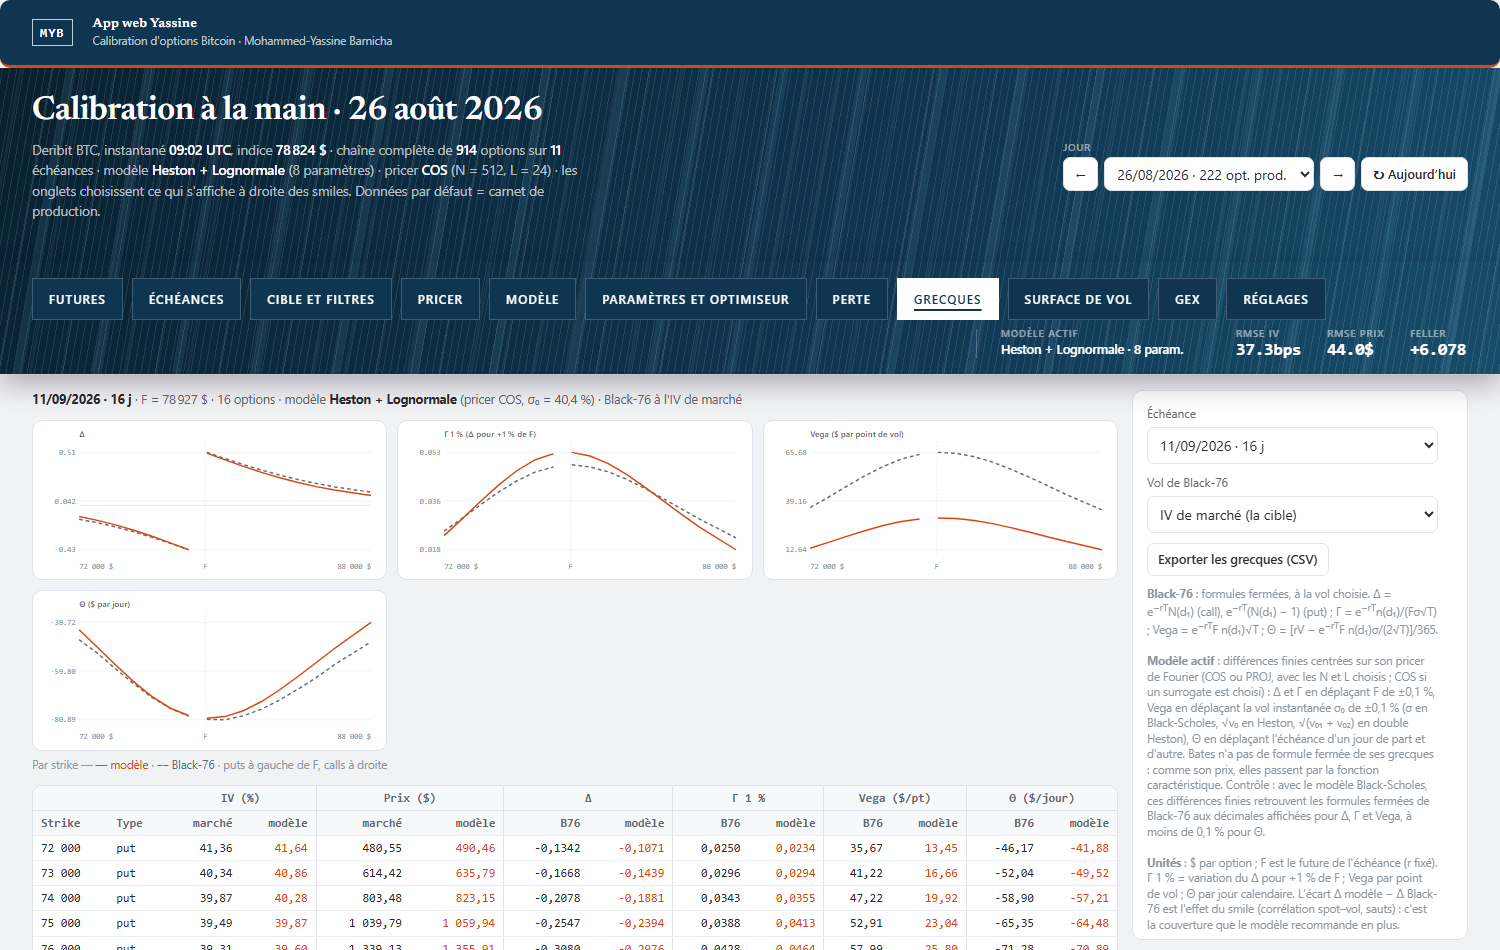
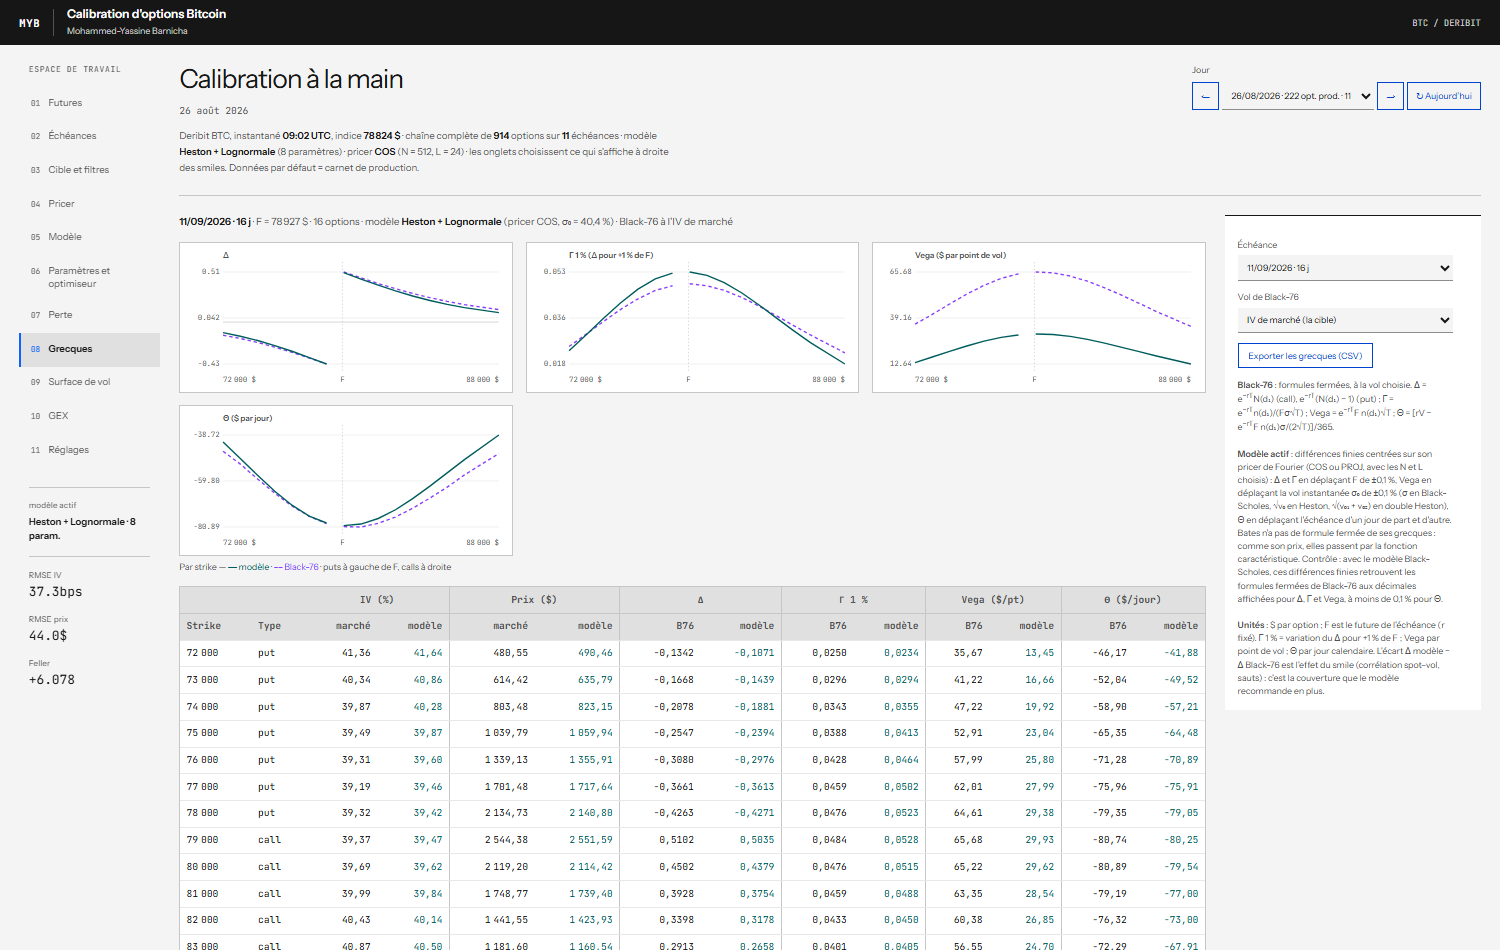
h

diff --git a/README.md b/README.md
@@ -16,12 +16,15 @@ entièrement dans le navigateur : aucun serveur de calcul, aucune installation.*
 - **Grecques** : Δ, Γ, Vega, Θ du modèle (différences finies sur son propre pricer) contre Black-76, par strike.
 - **Surface de volatilité 3D** : surface du modèle et points de marché, calibrés seulement ou tous, avec
   l'extrapolation du modèle là où il n'a rien vu.
-- **Pricer à la demande** : une option saisie à la main, ou un fichier CSV entier rendu avec prix, IV et grecques.
+- **Pricer à la demande** : une option saisie à la main, ou un fichier CSV entier rendu avec prix, IV et grecques
+  (format ci-dessous).
 - **Exotiques par Monte-Carlo** : asiatiques, barrières, digitales, lookbacks, américaines (Longstaff-Schwartz),
   payoffs composés ou formule libre, avec contrôle automatique contre le prix exact de Fourier.
 - **GEX (gamma exposure)** : exposition gamma des teneurs de marché par strike, niveau de bascule, call / put walls.
-- **Données** : 270+ jours de chaînes d'options Deribit depuis janvier 2024, l'historique des futures, 529 jeux de
-  paramètres calibrés, et un jour de plus chaque matin.
+- **Données** : 270+ jours de chaînes d'options Deribit depuis janvier 2024 (open interest compris), l'historique
+  des futures, 529 jeux de paramètres calibrés, et un jour de plus chaque matin.
+- **Ordinateur et téléphone** : navigation verticale numérotée sur grand écran ; sur téléphone, les smiles en
+  plein écran, deux volets glissants et le bouton d'optimisation toujours à portée de pouce.
 
 ## Modèles
 
@@ -43,8 +46,12 @@ Les 28 compositions sont pricées par leur fonction caractéristique, avec **COS
 - **Des données qui se mettent à jour seules** : une GitHub Action télécharge chaque matin la chaîne d'options
   Deribit (API publique, sans clé), l'ajoute et republie la page. Le bouton *↻ Aujourd'hui* fait la même chose
   depuis le navigateur, à tout moment.
-- **Fluide** : le pricer ne recalcule rien d'inutile (une évaluation complète ≈ 3 ms en COS, soit environ 300 par
-  seconde) ; l'optimisation tourne par tranches de 12 ms, l'écran garde ses 60 images par seconde.
+- **Rapide et fluide** (mesuré dans Chrome, modèle de Bates, 6 échéances, 222 options, COS) : une évaluation
+  complète ≈ 1,3 ms, soit environ **650 évaluations par seconde** pendant une optimisation ; un rafraîchissement de
+  l'écran ≈ 3,5 ms. L'optimisation tourne par tranches de 12 ms : l'écran garde ses 60 images par seconde.
+- **Un design sobre** inspiré des principes du système Carbon (IBM, Apache-2.0) : fond neutre, angles droits,
+  chiffres en chasse fixe, aucune bibliothèque externe — la page reste un seul fichier autonome
+  ([docs/DESIGN.md](docs/DESIGN.md)).
 
 ## Validation
 
@@ -56,6 +63,9 @@ Les 28 compositions sont pricées par leur fonction caractéristique, avec **COS
   modèles ; prime d'exercice anticipé nulle pour r = 0, positive pour r > 0.
 - Temps à l'échéance compté à l'heure près jusqu'à l'expiration de 08:00 UTC, ce qui compte pour les échéances de
   quelques jours.
+- Optimisations du pricer contrôlées contre la version précédente sur les 28 compositions, COS et PROJ : prix
+  identiques au bruit d'arrondi près (4,5·10⁻⁸ en relatif) ; la série COS est coupée là où son reste est borné
+  sous 10⁻¹⁰ $.
 
 ## Aperçus
 
@@ -65,20 +75,58 @@ Les 28 compositions sont pricées par leur fonction caractéristique, avec **COS
 
 ![Grecques du modèle contre Black-76, par strike](docs/apercu_grecques.png)
 
+**Sur téléphone** — à gauche la page (une échéance par rang, « Optimiser » fixé en bas), au milieu le volet des
+onglets, à droite le volet des réglages de l'onglet :
+
+![Version mobile : page, volet des onglets, volet des réglages](docs/apercu_mobile.png)
+
+## Toutes les vues
+
+Chaque onglet, sur le jour du 26/08/2026 (modèle de Bates calibré). Cliquer sur une image pour l'agrandir.
+
+| | |
+|---|---|
+| **Futures — trajectoire de chaque future depuis son émission**<br>[![Futures — trajectoire de chaque future depuis son émission](docs/captures/01_futures.png)](docs/captures/01_futures.png) | **Échéances — choix des échéances calibrées**<br>[![Échéances — choix des échéances calibrées](docs/captures/02_echeances.png)](docs/captures/02_echeances.png) |
+| **Cible et filtres — prix visé, spreads, moneyness**<br>[![Cible et filtres — prix visé, spreads, moneyness](docs/captures/03_cible_filtres.png)](docs/captures/03_cible_filtres.png) | **Pricer — COS / PROJ, options à la main, CSV, Monte-Carlo**<br>[![Pricer — COS / PROJ, options à la main, CSV, Monte-Carlo](docs/captures/04_pricer.png)](docs/captures/04_pricer.png) |
+| **Modèle — variance × sauts, dynamique affichée**<br>[![Modèle — variance × sauts, dynamique affichée](docs/captures/05_modele.png)](docs/captures/05_modele.png) | **Paramètres et optimiseur — curseurs, cinq optimiseurs**<br>[![Paramètres et optimiseur — curseurs, cinq optimiseurs](docs/captures/06_parametres_optimiseur.png)](docs/captures/06_parametres_optimiseur.png) |
+| **Perte — mesure et pondération de l'erreur**<br>[![Perte — mesure et pondération de l'erreur](docs/captures/07_perte.png)](docs/captures/07_perte.png) | **Grecques — modèle contre Black-76, par strike**<br>[![Grecques — modèle contre Black-76, par strike](docs/captures/08_grecques.png)](docs/captures/08_grecques.png) |
+| **Surface de vol — 3D, modèle et marché**<br>[![Surface de vol — 3D, modèle et marché](docs/captures/09_surface_de_vol.png)](docs/captures/09_surface_de_vol.png) | **GEX — gamma exposure, niveau de bascule**<br>[![GEX — gamma exposure, niveau de bascule](docs/captures/10_gex.png)](docs/captures/10_gex.png) |
+| **Réglages — enregistrement et export des jeux**<br>[![Réglages — enregistrement et export des jeux](docs/captures/11_reglages.png)](docs/captures/11_reglages.png) | **Sur téléphone** — page, volet des onglets, volet des réglages<br>[![Version mobile](docs/apercu_mobile.png)](docs/apercu_mobile.png) |
+
 ## Démarrer
 
-- **En ligne** : ouvrir la démo. Un onglet s'ouvre directement par l'adresse, par exemple `…/#GEX` ou
-  `…/#Surface%20de%20vol`.
+- **En ligne** : ouvrir la démo, sur ordinateur ou sur téléphone. Un onglet s'ouvre directement par l'adresse, par
+  exemple `…/#GEX` ou `…/#Surface%20de%20vol`.
 - **En local** : télécharger le dépôt et double-cliquer sur `index.html` (garder `jours/`, `futures.js` et
   `jeux.js` à côté).
+- **Sur téléphone** : « ☰ » en haut à gauche choisit l'onglet, « ☰ Réglages » en haut à droite ouvre ses réglages,
+  « Optimiser » reste en bas de l'écran ; toucher le voile sombre referme un volet.
+
+## Format CSV du pricer
+
+Onglet *Pricer* → *Pricer tes propres options* → *Pricer un CSV…* : le fichier revient (`<nom>_price.csv`) avec,
+en plus de ses colonnes, prix et IV du modèle, IV de marché, écarts, Δ, Γ, Vega, Θ du modèle et de Black-76.
+
+```csv
+id,type,K,F,jours,r,prix_marche
+put-70k,put,70000,83757,30,0.06,1245.5
+call-95k,call,95000,83757,30,0.06,980
+atm-90j,call,84000,83757,90,0.06,
+```
+
+Obligatoires : `type` (call/put, C/P), `K`, `F` et l'échéance par `T` (années) **ou** `jours` **ou** `echeance`
+(AAAA-MM-JJ, expiration 08:00 UTC). Facultatives : `r`, `prix_marche` ; toute autre colonne est recopiée.
+Séparateur `,` ou `;` (virgule décimale acceptée avec `;`, comme dans Excel en français). Détail dans le
+[guide](docs/GUIDE.md).
 
 ## Pour aller plus loin
 
 - [docs/GUIDE.md](docs/GUIDE.md) : mode d'emploi complet (chaque onglet, format CSV, scripts, mise à jour des
   données, publication).
+- [docs/DESIGN.md](docs/DESIGN.md) : règles du design (couleurs, grille, ordinateur et téléphone).
 - [METHODOLOGIE_app_web_yassine.pdf](METHODOLOGIE_app_web_yassine.pdf) : théorie et algorithmes (composition des
   modèles, pricers de Fourier, perte, optimiseurs, validation).
-- Développement : la page se construit depuis `sources/` (`template_full.html`, `pricer.js`) avec
+- Développement : la page se construit depuis `sources/` (`template_full.html`, `design.css`, `pricer.js`) avec
   `python sources/build.py` ; un nouveau modèle s'ajoute par son exposant dans `pricer.js` et sa fiche dans le
   gabarit.
 

diff --git a/docs/GUIDE.md b/docs/GUIDE.md
@@ -106,6 +106,15 @@ Retour au [README](../README.md).
    générations, mutation, recombinaison, tol, atol, graine, injection du point actuel (DE), avec deux préréglages
    « Défauts scipy » et « Réglages de production » (ceux de la chaîne de calibration Python d'origine). Ils sont enregistrés avec le réglage.
 
+## Sur téléphone
+
+- En haut, une barre fixe : « ☰ » (à gauche) ouvre le volet des **onglets**, la RMSE au milieu, « ☰ Réglages » (à
+  droite) ouvre le volet des **réglages de l'onglet** (curseurs, point de départ, pricer…).
+- Au centre, les smiles, **une échéance par rang** ; en bas, toujours visible, **« Optimiser »** avec sa progression
+  et son état.
+- Un volet se referme par « ✕ Fermer », en choisissant un onglet, ou en touchant le voile sombre.
+- La page est légèrement dézoomée (85 %) ; sur ordinateur, elle l'est à 80 %.
+
 ## Vitesse et fluidité
 
 - **Réglages par défaut les plus rapides** : pricer COS (N = 512, L = 24) et modèle de Bates (Heston + sauts
@@ -119,9 +128,20 @@ Retour au [README](../README.md).
   rafraîchi environ toutes les 100 ms et reprend l'évaluation que l'optimiseur vient de faire au lieu de la
   refaire ; les smiles sont dessinés avant les autres écritures de la page ; l'onglet Grecques n'est recalculé
   qu'une fois par seconde pendant une optimisation (et à la fin).
-- **Ordre de grandeur** (Bates, 6 échéances, ~300 options, COS) : une évaluation ≈ 3 ms, soit environ 300
-  évaluations par seconde ; un rafraîchissement complet de l'écran ≈ 5 à 9 ms. PROJ (N = 2048) coûte environ
-  3 fois plus ; un modèle à deux composantes de sauts (11 paramètres) demande aussi plus d'itérations.
+- **Pricer COS** : le module complexe se calcule sans `Math.hypot` (lent) et la série s'arrête là où son reste est
+  borné sous 10⁻¹⁰ $ : les longues échéances n'ont besoin que d'une fraction des N termes.
+- **Mesures** (Chrome, Bates, 6 échéances, 222 options, COS N = 512) :
+
+  | Bloc | Temps |
+  |---|---|
+  | une évaluation complète (prix, IV, perte, métriques) | ≈ 1,3 ms |
+  | dont la fonction caractéristique | ≈ 0,7 ms |
+  | dont l'inversion des volatilités implicites | ≈ 0,15 ms |
+  | Nelder–Mead | ≈ 650 évaluations par seconde |
+  | un rafraîchissement de l'écran (smiles, métriques, curseurs) | ≈ 3,5 ms |
+
+  PROJ (N = 2048) coûte environ 3 fois plus ; un modèle à deux composantes de sauts (11 paramètres) demande aussi
+  plus d'itérations.
 
 ## Enregistrer et exporter
 
